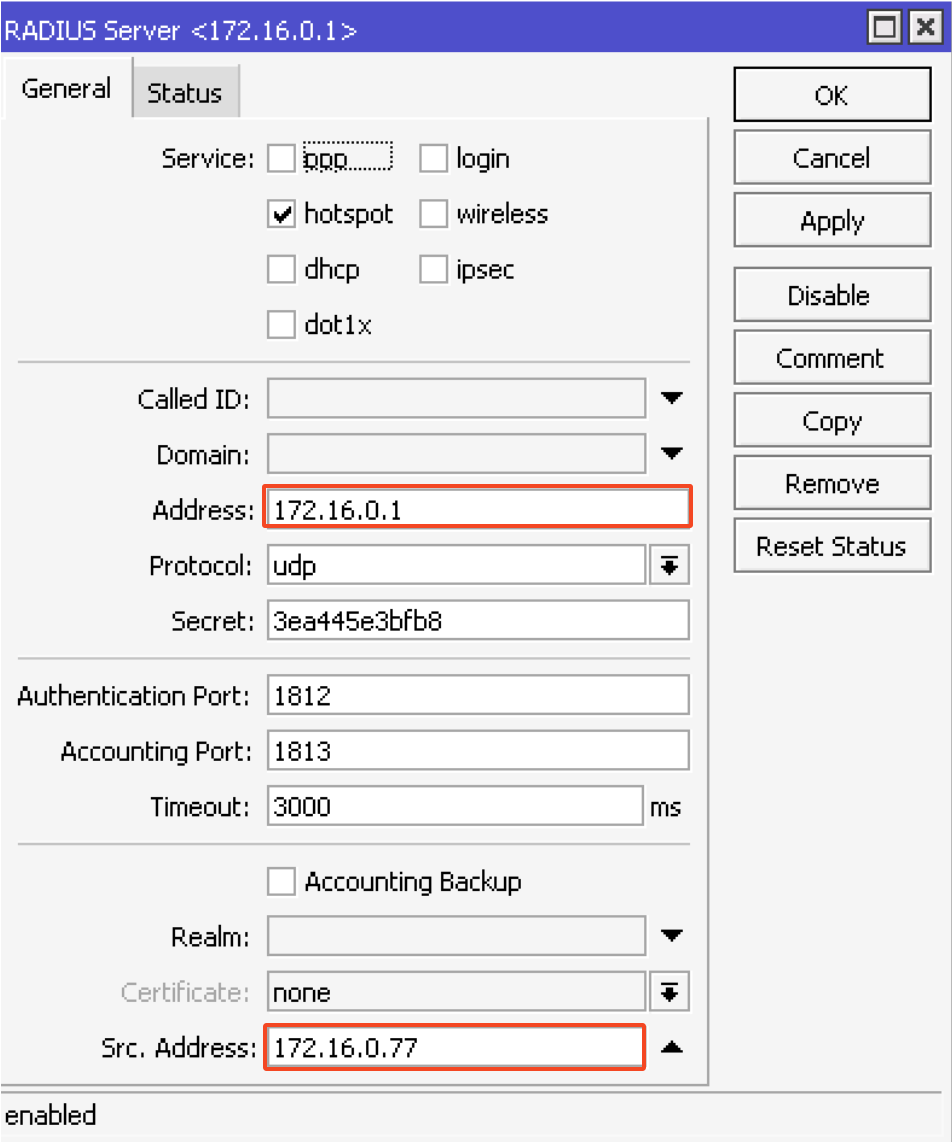
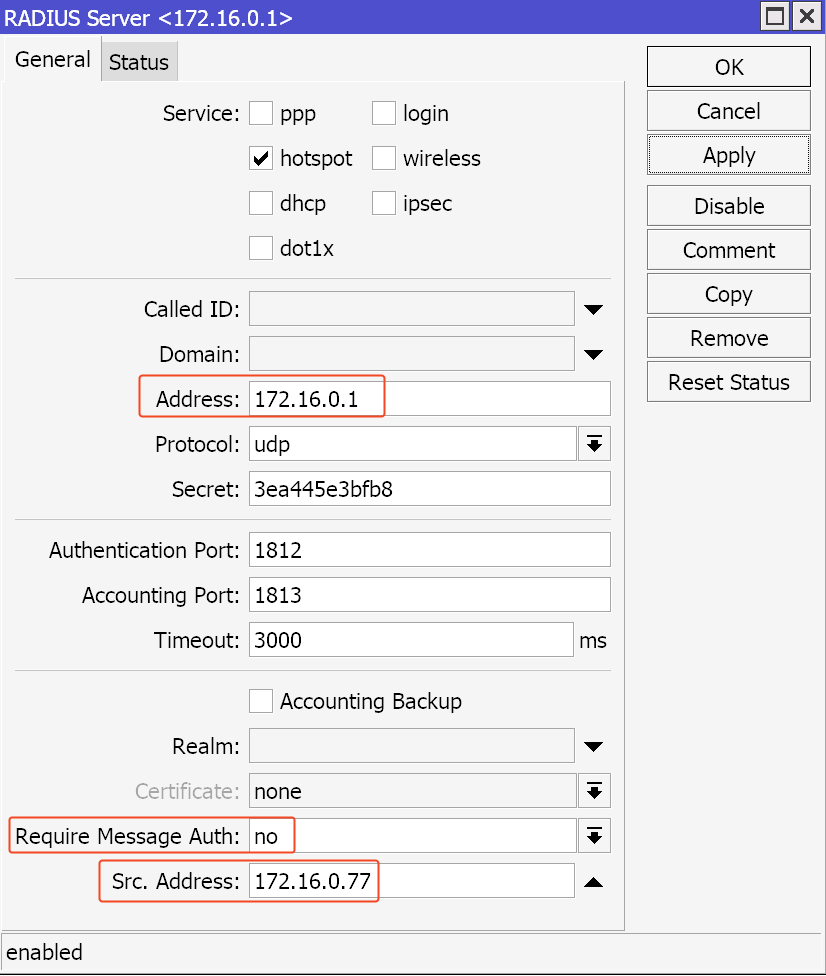
fix mikrotik doc

Changed region(s): [[0.0, 0.0, 1.0, 1.0]]

diff --git a/networking/mikrotik_troubleshooting.md b/networking/mikrotik_troubleshooting.md
@@ -47,3 +47,7 @@ Do the same with the NAS IP on your hotspot; copy it and paste it into the Src.A
 ![radius-timeout](images/radius-timeout.png){data-zoomable}
 
 Sometimes, it is necessary to set the timeout value to 20000 if the network delay is high. Before changing this value, ensure that step #2 has been checked.
+
+**10.** RADIUS server "Require Message Auth" option - keep this option with the "no" value as it can brake RADIUS authentication process:
+
+![radius-server](images/radius-server.png){data-zoomable}

diff --git a/networking/mikrotik.md b/networking/mikrotik.md
@@ -126,6 +126,8 @@ Pay attention to:
 
 * **Timeout** - recommended value 3000 or more;
 
+* **Require Message Auth** - "no"
+
 * **Src.Address** -  IP address of the router in Powerlynx. It must be the same IP address added in step #2 under IP/Addresses.
 
 **6. Walled Garden**
